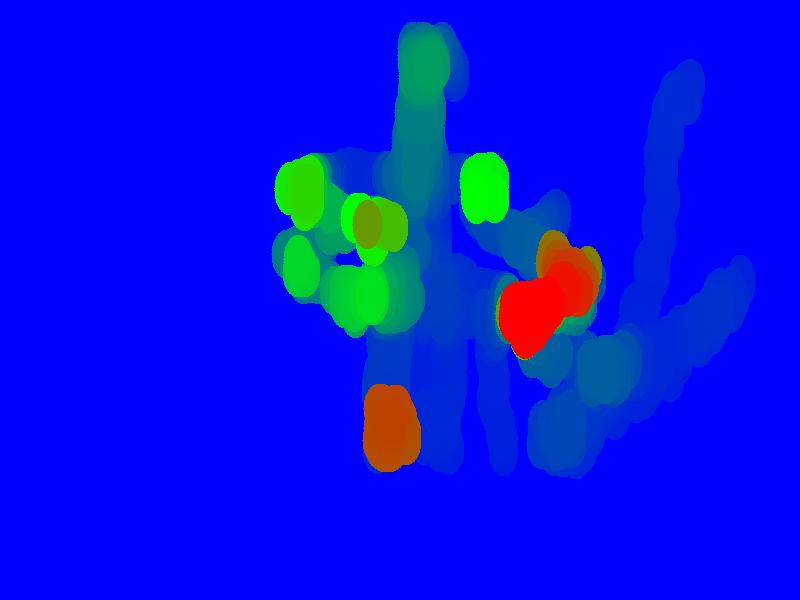
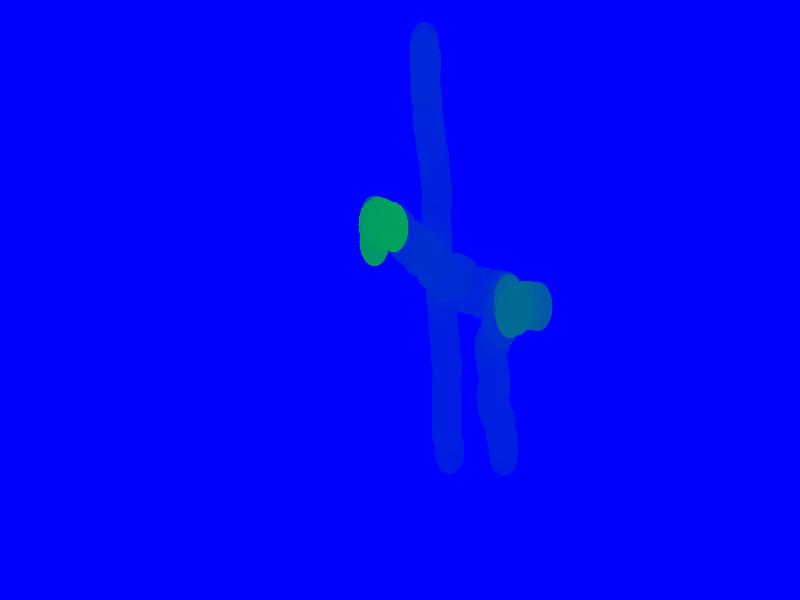
Commit przed wprowadzeniem uwag od MK

Changed region(s): [[0.3125, 0.03, 0.9688, 0.81]]

diff --git a/src/pw/mgr/current/MyRunPrint.java b/src/pw/mgr/current/MyRunPrint.java
@@ -156,13 +156,13 @@ public class MyRunPrint extends Thread {
 
         pointToDraws.stream().forEach(objects -> {
             objects.setCount(objects.getCount() + 25);
-            int alfa = 30;
+            int alfa = 15;
             if(objects.getCount() < 255){
                 cg.setColor(new Color(0, objects.getCount(), 255 - objects.getCount()));
                 cgBase.setColor(new Color(0, objects.getCount(), 255 - objects.getCount(), alfa));
             }else if (objects.getCount() >= 255 && objects.getCount() < 510){
                 cg.setColor(new Color(objects.getCount() - 255 , 255 - (objects.getCount() - 255), 0));
-                cgBase.setColor(new Color(objects.getCount() - 255 , 255 - (objects.getCount() - 255), 0 , alfa + 10));
+                cgBase.setColor(new Color(objects.getCount() - 255 , 255 - (objects.getCount() - 255), 0 , alfa -5));
             }else{
                 cg.setColor(new Color(255, 0, 0));
                 cgBase.setColor(new Color(255, 0, 0 , alfa + 20));

diff --git a/src/pw/mgr/current/MoveDetection.java b/src/pw/mgr/current/MoveDetection.java
@@ -43,8 +43,8 @@ public class MoveDetection {
     private static Mat frame;
     private static  Mat flow ;
 
-    private static int slider = 1;
-    private static int slider2 = 9;
+    private static int slider = 25;
+    private static int slider2 = 4;
     private static int slider3 = 20;
 
     private static int slider4 = 500;
@@ -126,6 +126,7 @@ public class MoveDetection {
 
         myFrame.getReloadButton().addActionListener(e -> {
             System.out.println("reload video");
+            baseFrame = null;
             System.out.println("selected " + movie.getMovieLocationBaseOnName(myFrame.getSelectedMovie()));
             detectedObjectListOld  = new ArrayList<>();
             frame = new Mat();

diff --git a/src/pw/mgr/current/MyFrame.java b/src/pw/mgr/current/MyFrame.java
@@ -263,12 +263,14 @@ public class MyFrame extends JFrame{
         gbc.ipadx = 100;
         gbc.gridx = 0;
         gbc.gridy = 1;
+        jSlider1.setValue(25);
         slidersPanel.add(jSlider1, gbc);
 
 
         setSliderParams(jSlider2);
         gbc.gridx = 0;
         gbc.gridy = 3;
+        jSlider2.setValue(4);
         slidersPanel.add(jSlider2, gbc);
 //
 //        setSliderParams(jSlider3);
